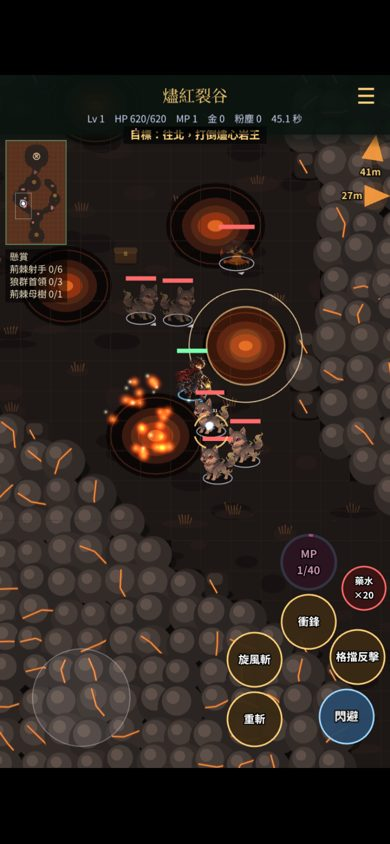
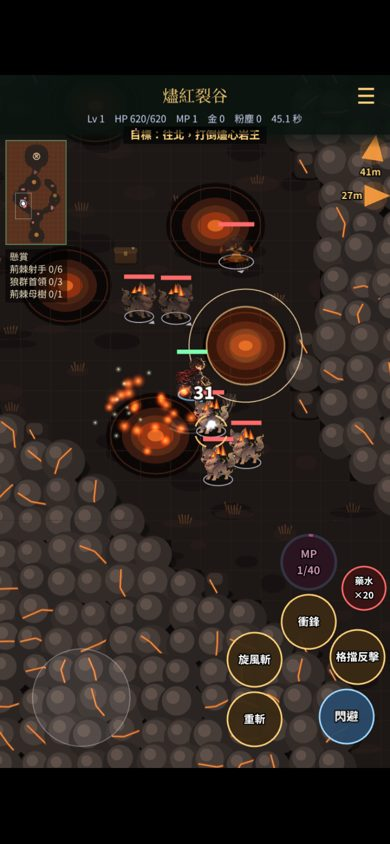
燼鬃狼／黑曜首領／熔核巡者背上搖曳的火焰鬃毛（程式加料，染色立繪也認得出是裂谷的怪）；截圖 45 更新
Claude-Session: https://claude.ai/code/session_01DT4NTJGUUHUdTPbSfxHE47

Changed region(s): [[0.2462, 0.3081, 0.6769, 0.5853], [0.5538, 0.2464, 0.6462, 0.3389]]

diff --git a/src/game/scenes/RtBattleScene.ts b/src/game/scenes/RtBattleScene.ts
@@ -19,6 +19,8 @@ import { CAMPFIRE_RULES, CHEST_RULES, ELITE_AFFIXES, TICKS_PER_SEC, UNIT, aggroU
 /** 命中時會在地上長出荊棘的招式（第 23 輪） */
 const THORN_ATTACKS = new Set(['queen_lance', 'queen_lance2', 'queen_roots', 'queen_bloom', 'mother_lance', 'mother_roots']);
 /** 燼心岩王與黑曜首領（D-125）：命中那一刻地上裂出熔岩（走 thornPending，命中時改呼叫 spawnLava） */
+/** 背上畫火焰鬃毛的怪（D-125） */
+const FLAME_MANE = new Set(['ember_wolf', 'obsidian_alpha', 'magma_stalker']);
 const LAVA_ATTACKS = new Set(['colossus_fissure', 'colossus_fissure2', 'colossus_stomp', 'colossus_quake', 'obs_slam', 'slime_splash', 'magma_burst', 'magma_charge']);
 
 function lerpColor(a: number, b: number, t: number): number {
@@ -2524,6 +2526,18 @@ export class RtBattleScene extends Phaser.Scene {
         else if (cfg.tint) sp.setTint(cfg.tint);
         else sp.clearTint();
         headY = sp.y - sp.displayHeight * 0.92;
+        if (FLAME_MANE.has(x.defId) && !x.dead) {
+          // 燼紅裂谷的狼（D-125）：背上搖曳的火焰鬃毛（染色立繪的程式加料，純畫面）
+          const big = x.defId !== 'ember_wolf';
+          for (let q = 0; q < (big ? 4 : 3); q++) {
+            const fxp = sp.x + (q - (big ? 1.5 : 1)) * r * 0.42 * (sp.flipX ? -1 : 1);
+            const fyp = sp.y - sp.displayHeight * (0.62 + 0.05 * Math.sin(q * 2.1));
+            const hgt = r * (big ? 1.15 : 0.9) * (0.75 + 0.25 * Math.sin(now / 90 + q * 1.7 + x.id));
+            const sway = Math.sin(now / 140 + q + x.id) * r * 0.12;
+            top.fillStyle(0xff5a1a, 0.8).fillTriangle(fxp - r * 0.24, fyp, fxp + r * 0.24, fyp, fxp + sway, fyp - hgt);
+            top.fillStyle(0xffc04a, 0.95).fillTriangle(fxp - r * 0.11, fyp, fxp + r * 0.11, fyp, fxp + sway * 0.6, fyp - hgt * 0.6);
+          }
+        }
         if (isP) {
           this.shadowGhost(x, sp, now);
           this.drawUltAim(g, x, now);
